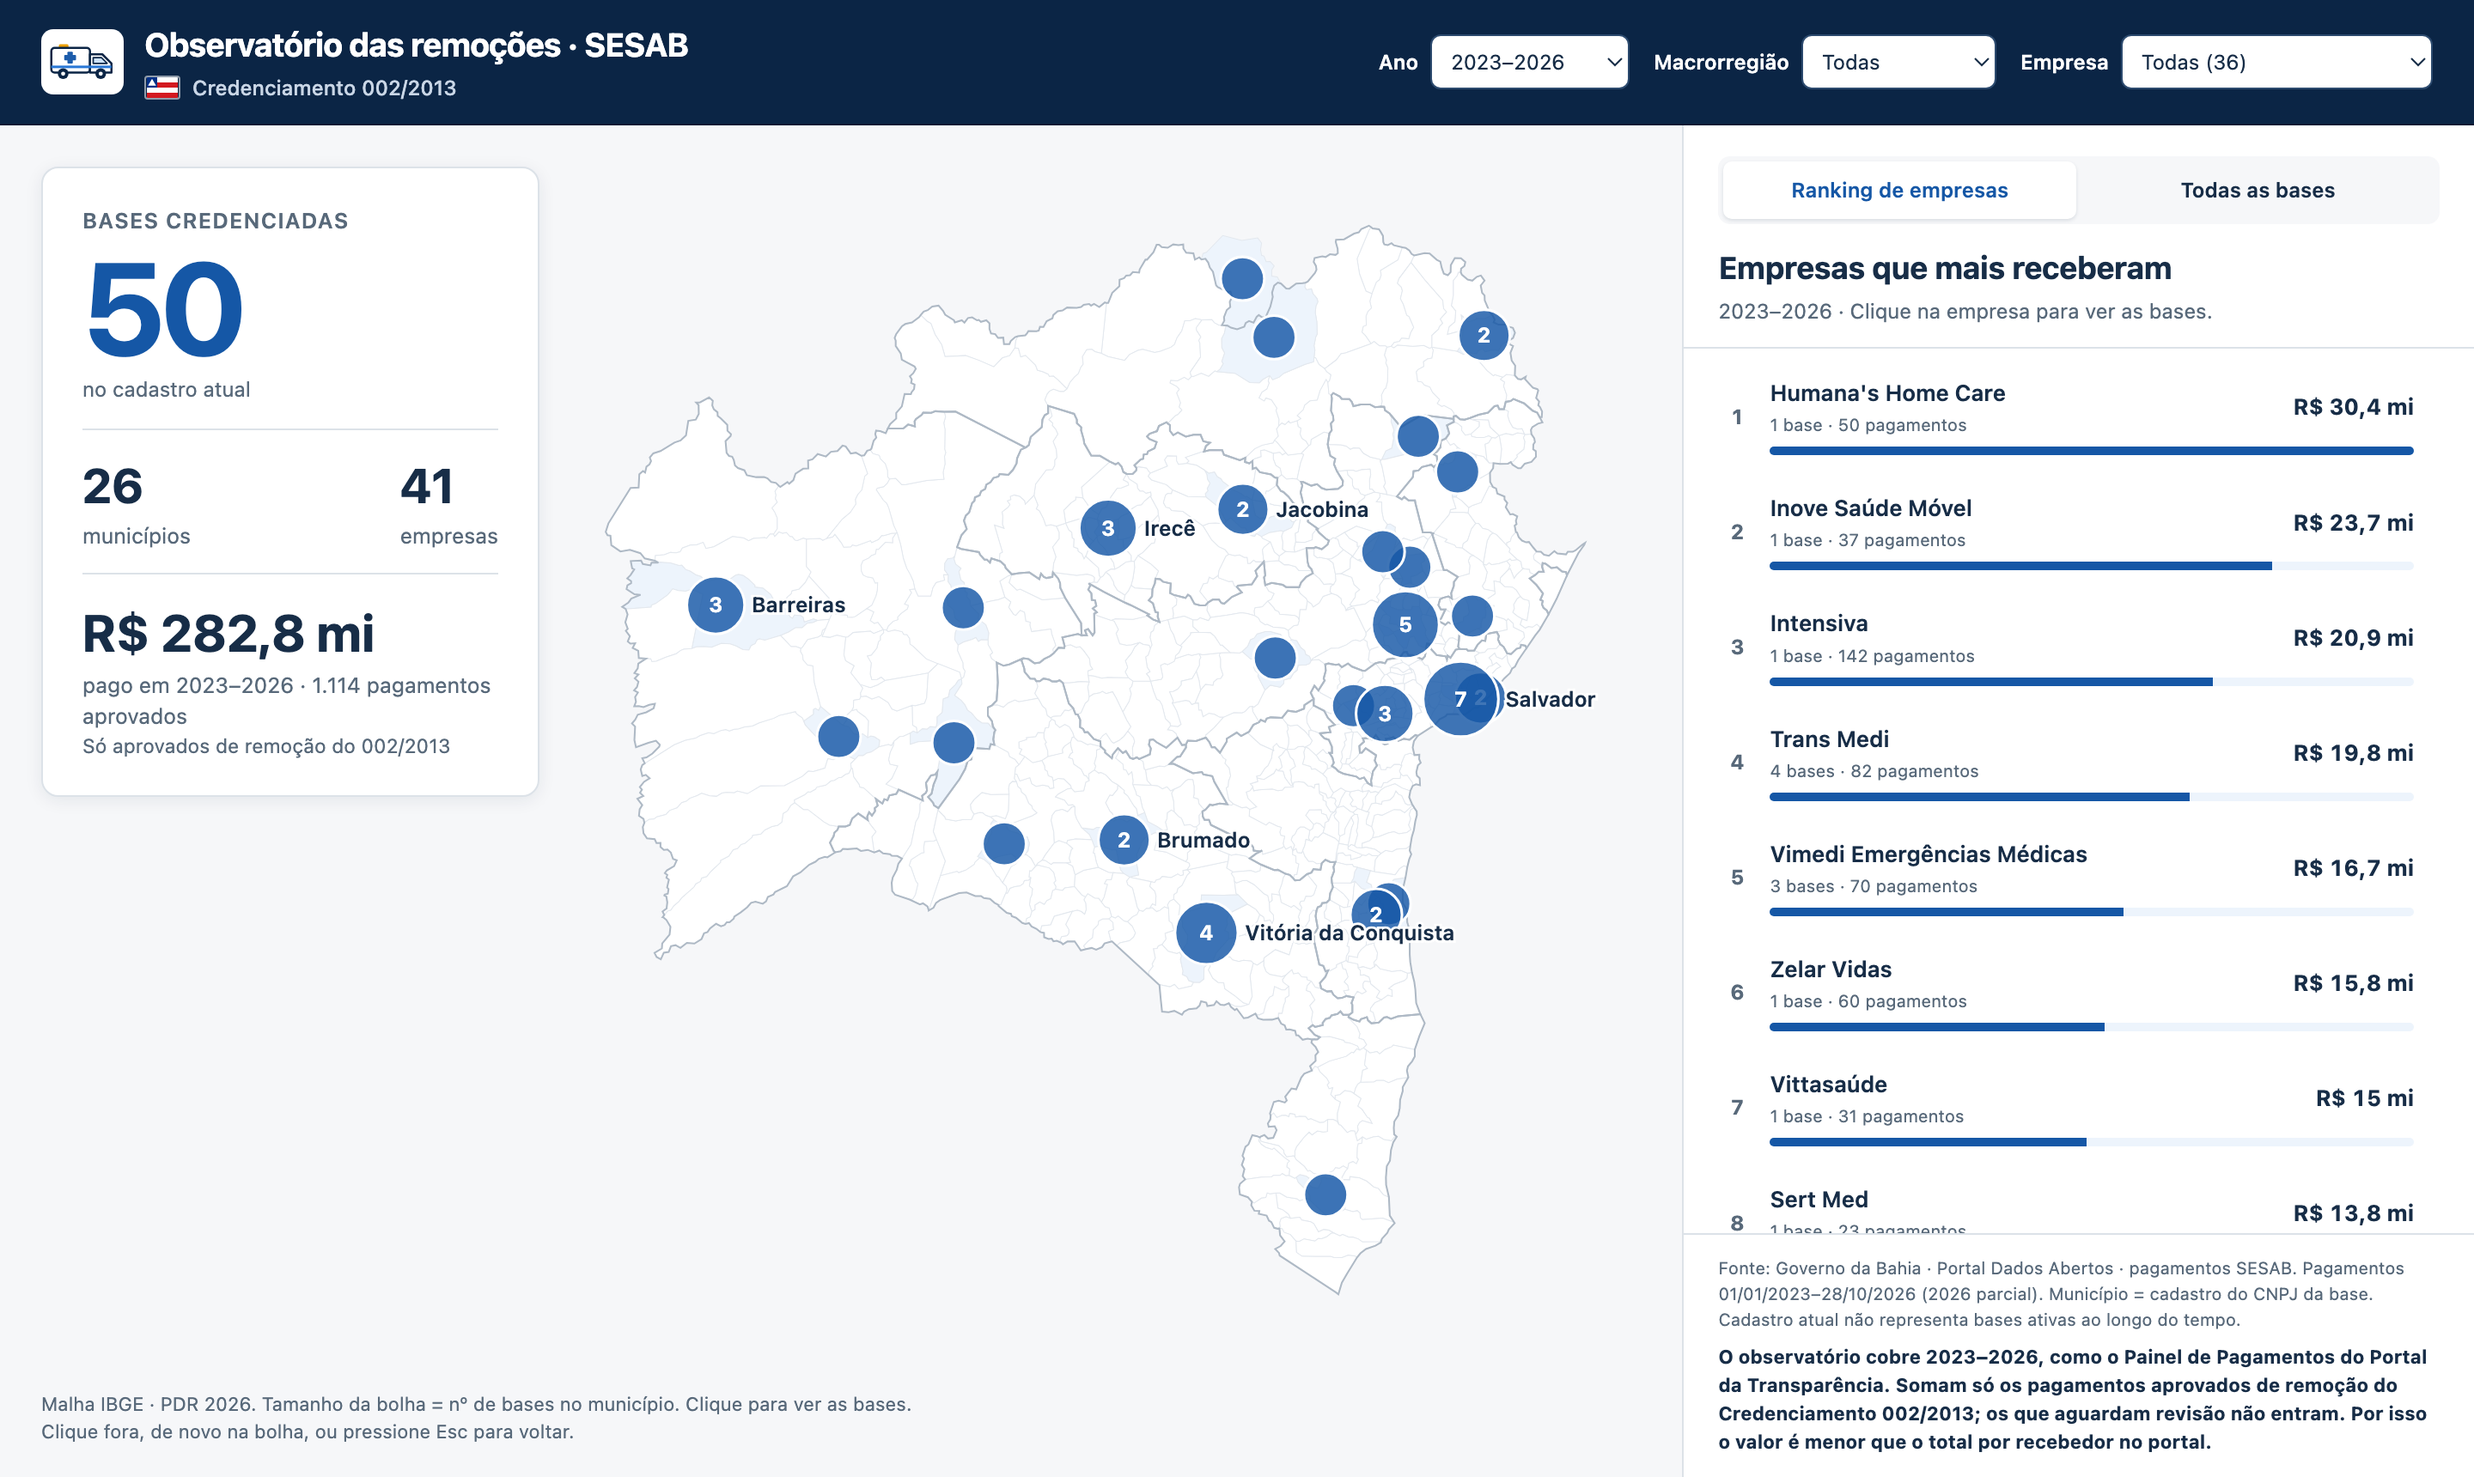
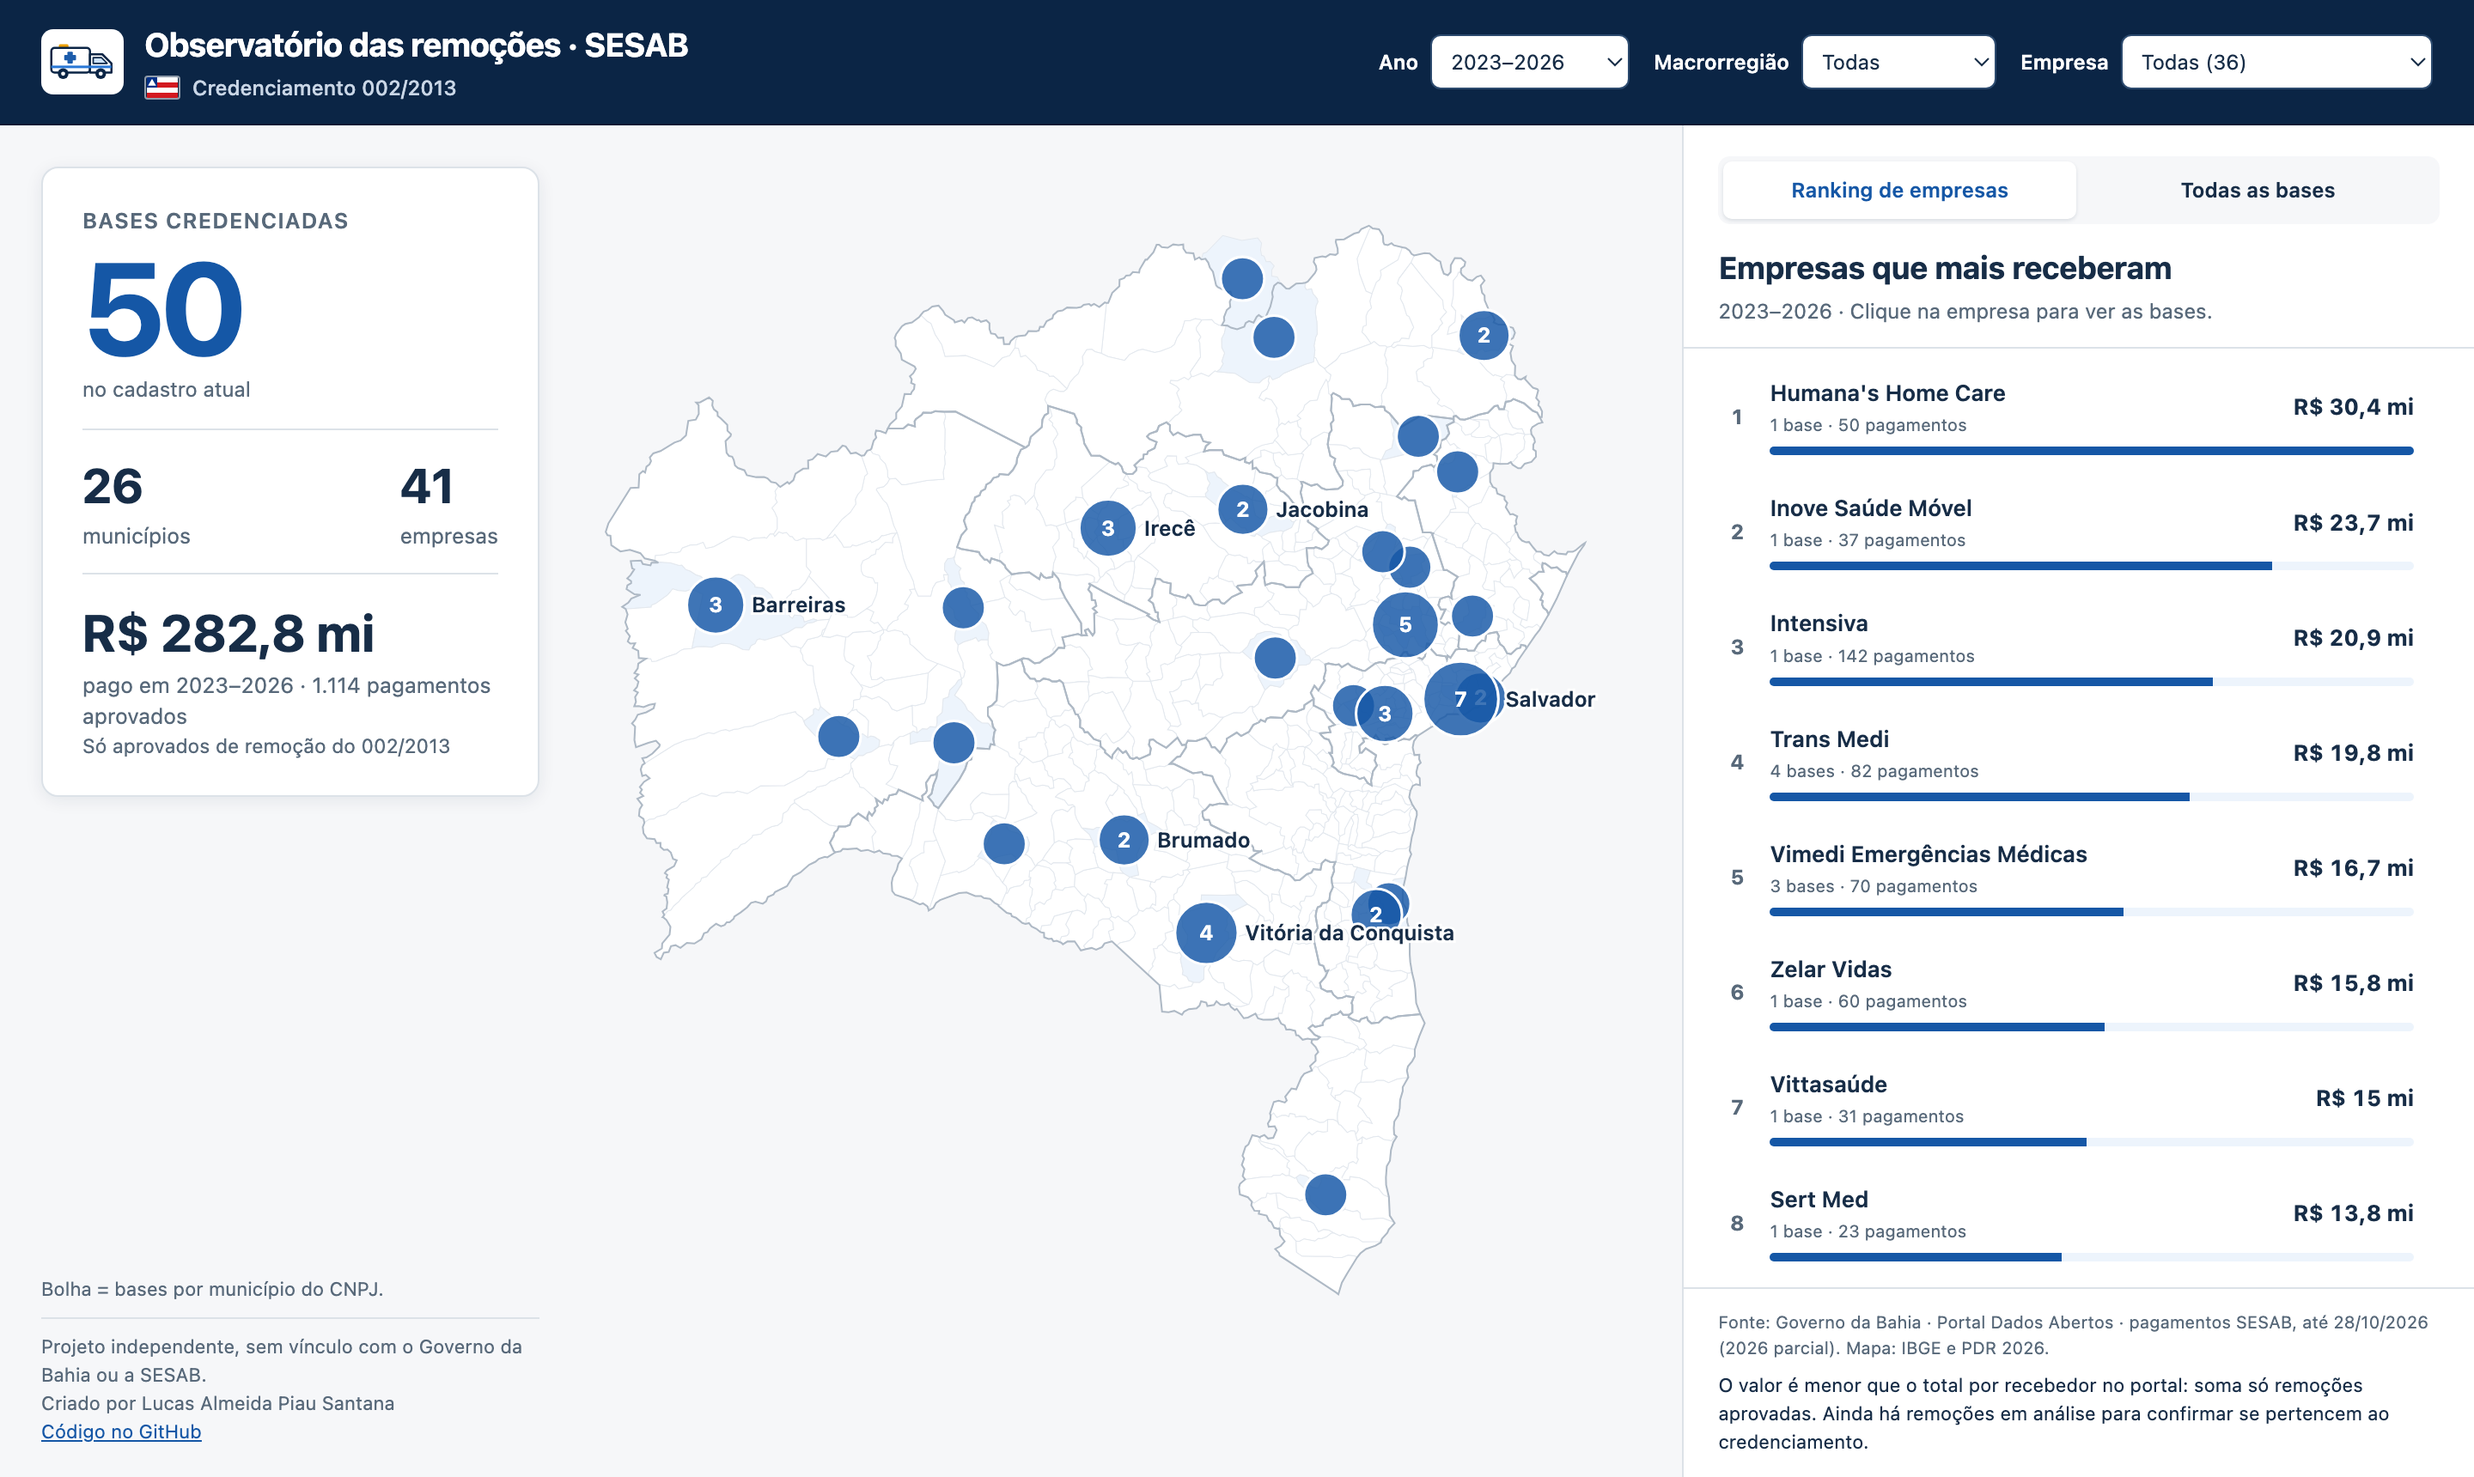
Licença MIT, rodapé com autoria e aviso de independência (#4)

Changed region(s): [[0.6875, 0.832, 1.0, 0.986], [0.0, 0.8628, 0.2188, 0.986], [0.25, 0.9244, 0.3125, 0.9552]]

diff --git a/web/src/publico/bi/PainelBI.tsx b/web/src/publico/bi/PainelBI.tsx
@@ -425,10 +425,16 @@ export function PainelCarregado({ dados, municipios, macros }: Recursos) {
             </button>
           )}
           <p className="legenda">
-            Malha IBGE · PDR 2026. Tamanho da bolha = nº de bases no município.
-            Clique para ver as bases.
-            <br />
-            Clique fora, de novo na bolha, ou pressione Esc para voltar.
+            Bolha = bases por município do CNPJ.
+            <span className="autoria">
+              Projeto independente, sem vínculo com o Governo da Bahia ou a SESAB.
+              <br />
+              Criado por Lucas Almeida Piau Santana
+              <br />
+              <a href="https://github.com/Piaulucas/observatorio-sesab" target="_blank" rel="noopener noreferrer">
+                Código no GitHub
+              </a>
+            </span>
           </p>
         </section>
         <aside className="lado" aria-label="Empresas e bases">
@@ -519,18 +525,12 @@ export function PainelCarregado({ dados, municipios, macros }: Recursos) {
             )}
           </div>
           <footer className="fonte">
-            Fonte: {dados.cobertura.fonte}. Pagamentos{" "}
-            {dados.cobertura.inicio.split("-").reverse().join("/")}–
-            {dados.cobertura.fim.split("-").reverse().join("/")}{" "}
-            {anos.length
-              ? `(${anos.at(-1)} parcial).`
-              : "(sem pagamentos no recorte)."}{" "}
-            Município = cadastro do CNPJ da base. Cadastro atual não representa bases ativas ao longo do tempo.
-            <strong className="aviso-valor">
-              O observatório cobre 2023–2026, como o Painel de Pagamentos do Portal da Transparência. Somam só os
-              pagamentos aprovados de remoção do Credenciamento 002/2013; os que aguardam revisão não entram. Por isso o
-              valor é menor que o total por recebedor no portal.
-            </strong>
+            Fonte: {dados.cobertura.fonte}, até {dados.cobertura.fim.split("-").reverse().join("/")}{" "}
+            {anos.length ? `(${anos.at(-1)} parcial).` : "(sem pagamentos no recorte)."} Mapa: IBGE e PDR 2026.
+            <span className="aviso-valor">
+              O valor é menor que o total por recebedor no portal: soma só remoções aprovadas. Ainda há remoções em análise
+              para confirmar se pertencem ao credenciamento.
+            </span>
           </footer>
         </aside>
       </div>

diff --git a/web/src/testes/painel-bi.test.tsx b/web/src/testes/painel-bi.test.tsx
@@ -132,7 +132,10 @@ describe("Painel BI — interações", () => {
     });
     expect(document.querySelector(".numero-bases")).toHaveTextContent("18");
     expect(screen.getByText(/menor que o total por recebedor no portal/)).toBeInTheDocument();
+    expect(screen.getByText(/Ainda há remoções em análise/)).toBeInTheDocument();
     expect(screen.getByText("Só aprovados de remoção do 002/2013")).toBeInTheDocument();
+    expect(screen.getByText(/Projeto independente, sem vínculo.*Criado por Lucas Almeida Piau Santana/)).toBeInTheDocument();
+    expect(screen.getByRole("link", { name: "Código no GitHub" })).toHaveAttribute("href", "https://github.com/Piaulucas/observatorio-sesab");
     fireEvent.change(screen.getByLabelText("Empresa"), {
       target: { value: "32788063" },
     });

diff --git a/web/src/publico/bi/painel-bi.css b/web/src/publico/bi/painel-bi.css
@@ -298,13 +298,24 @@ small {
   color: var(--ink);
   font-size: 11px;
 }
+.legenda .autoria {
+  display: block;
+  margin-top: 8px;
+  padding-top: 8px;
+  border-top: 1px solid var(--line);
+}
+.legenda .autoria a {
+  color: var(--blue);
+  white-space: nowrap;
+}
 .legenda {
   position: absolute;
   left: 24px;
   bottom: 18px;
   font-size: 11px;
   color: var(--muted);
-  max-width: calc(100% - 48px);
+  width: var(--quadro);
+  line-height: 1.5;
 }
 .voltar-mapa {
   position: absolute;
@@ -678,6 +689,7 @@ small {
   .legenda {
     position: static;
     margin: 12px 4px 0;
+    width: auto;
     max-width: none;
     font-size: 10px;
   }

diff --git a/README.md b/README.md
@@ -105,10 +105,14 @@ O projeto permanece em desenvolvimento, com melhorias previstas para:
 - Melhorias de visualização e interação.
 - Acompanhamento da distribuição territorial e financeira ao longo do tempo.
 
+## Licença
+
+O código deste repositório está sob a [licença MIT](LICENSE). A licença não se estende aos dados, às malhas geográficas e aos documentos de terceiros, que seguem as condições das respectivas fontes.
+
 ---
 
 **Projeto independente, sem vínculo institucional com o Governo do Estado da Bahia ou com a SESAB.**
 
-Desenvolvido por Lucas Piau.
+Desenvolvido por Lucas Almeida Piau Santana.
 
 [**Explorar o Observatório SESAB**](https://observatorio-sesab.pages.dev/)
